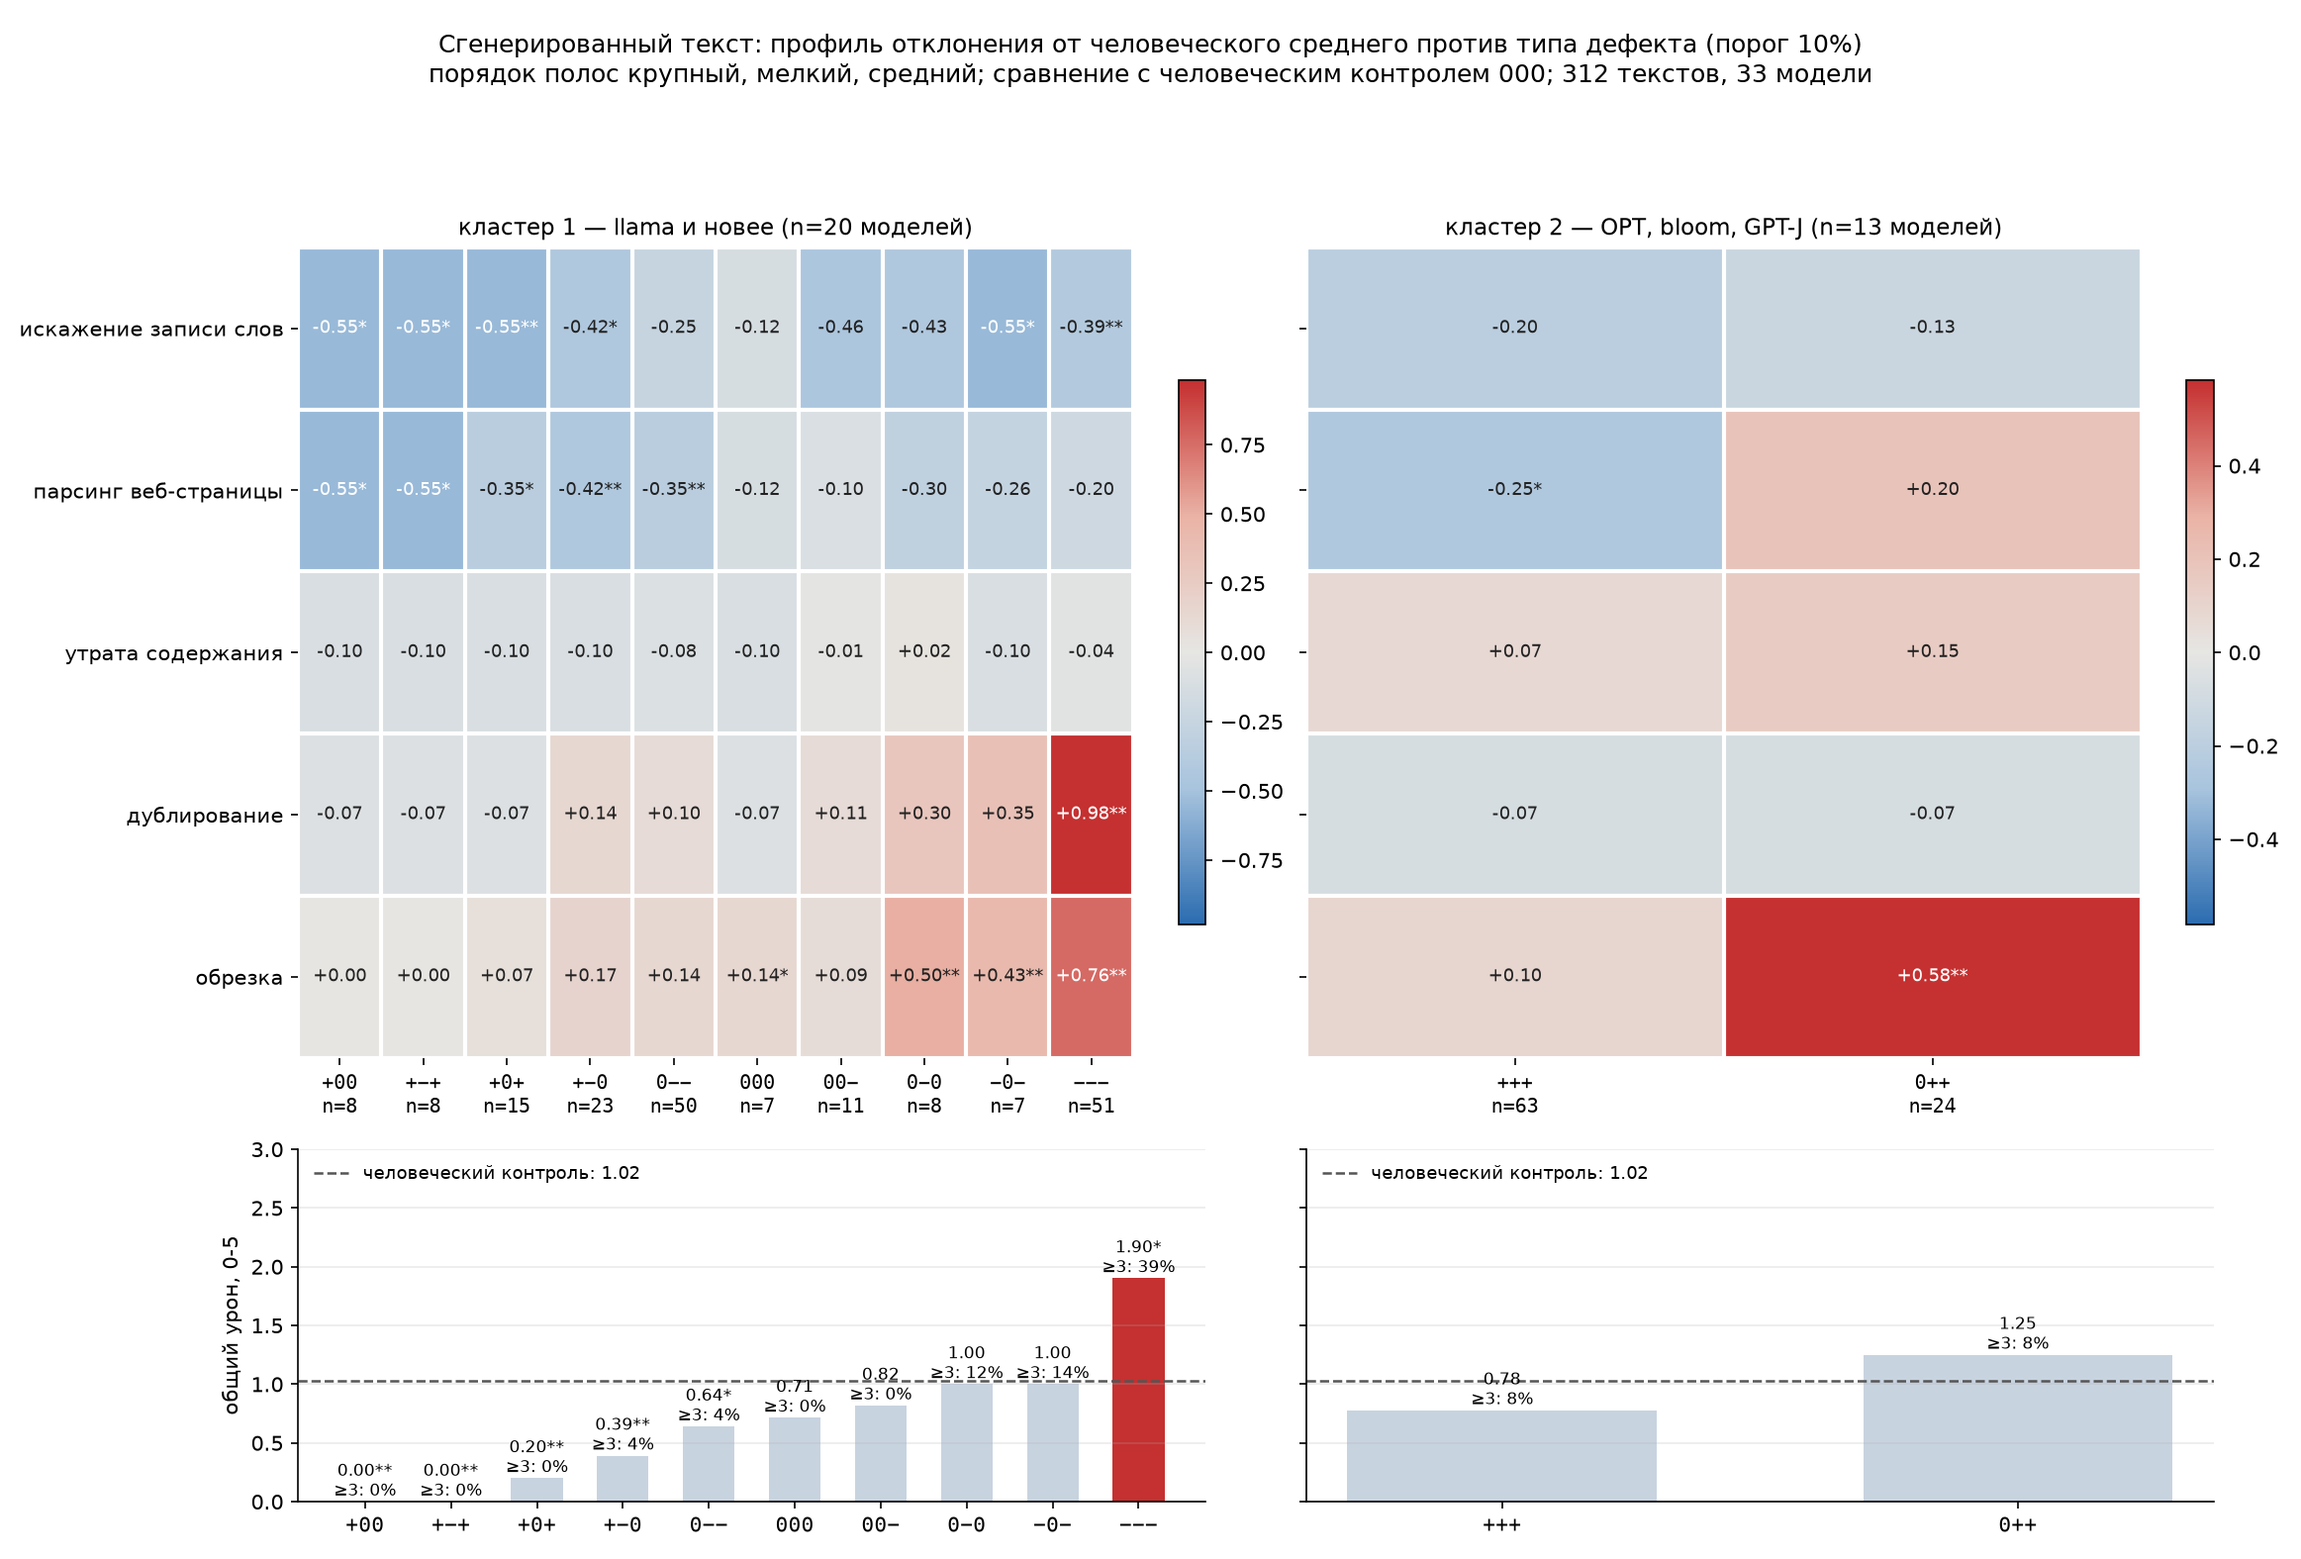
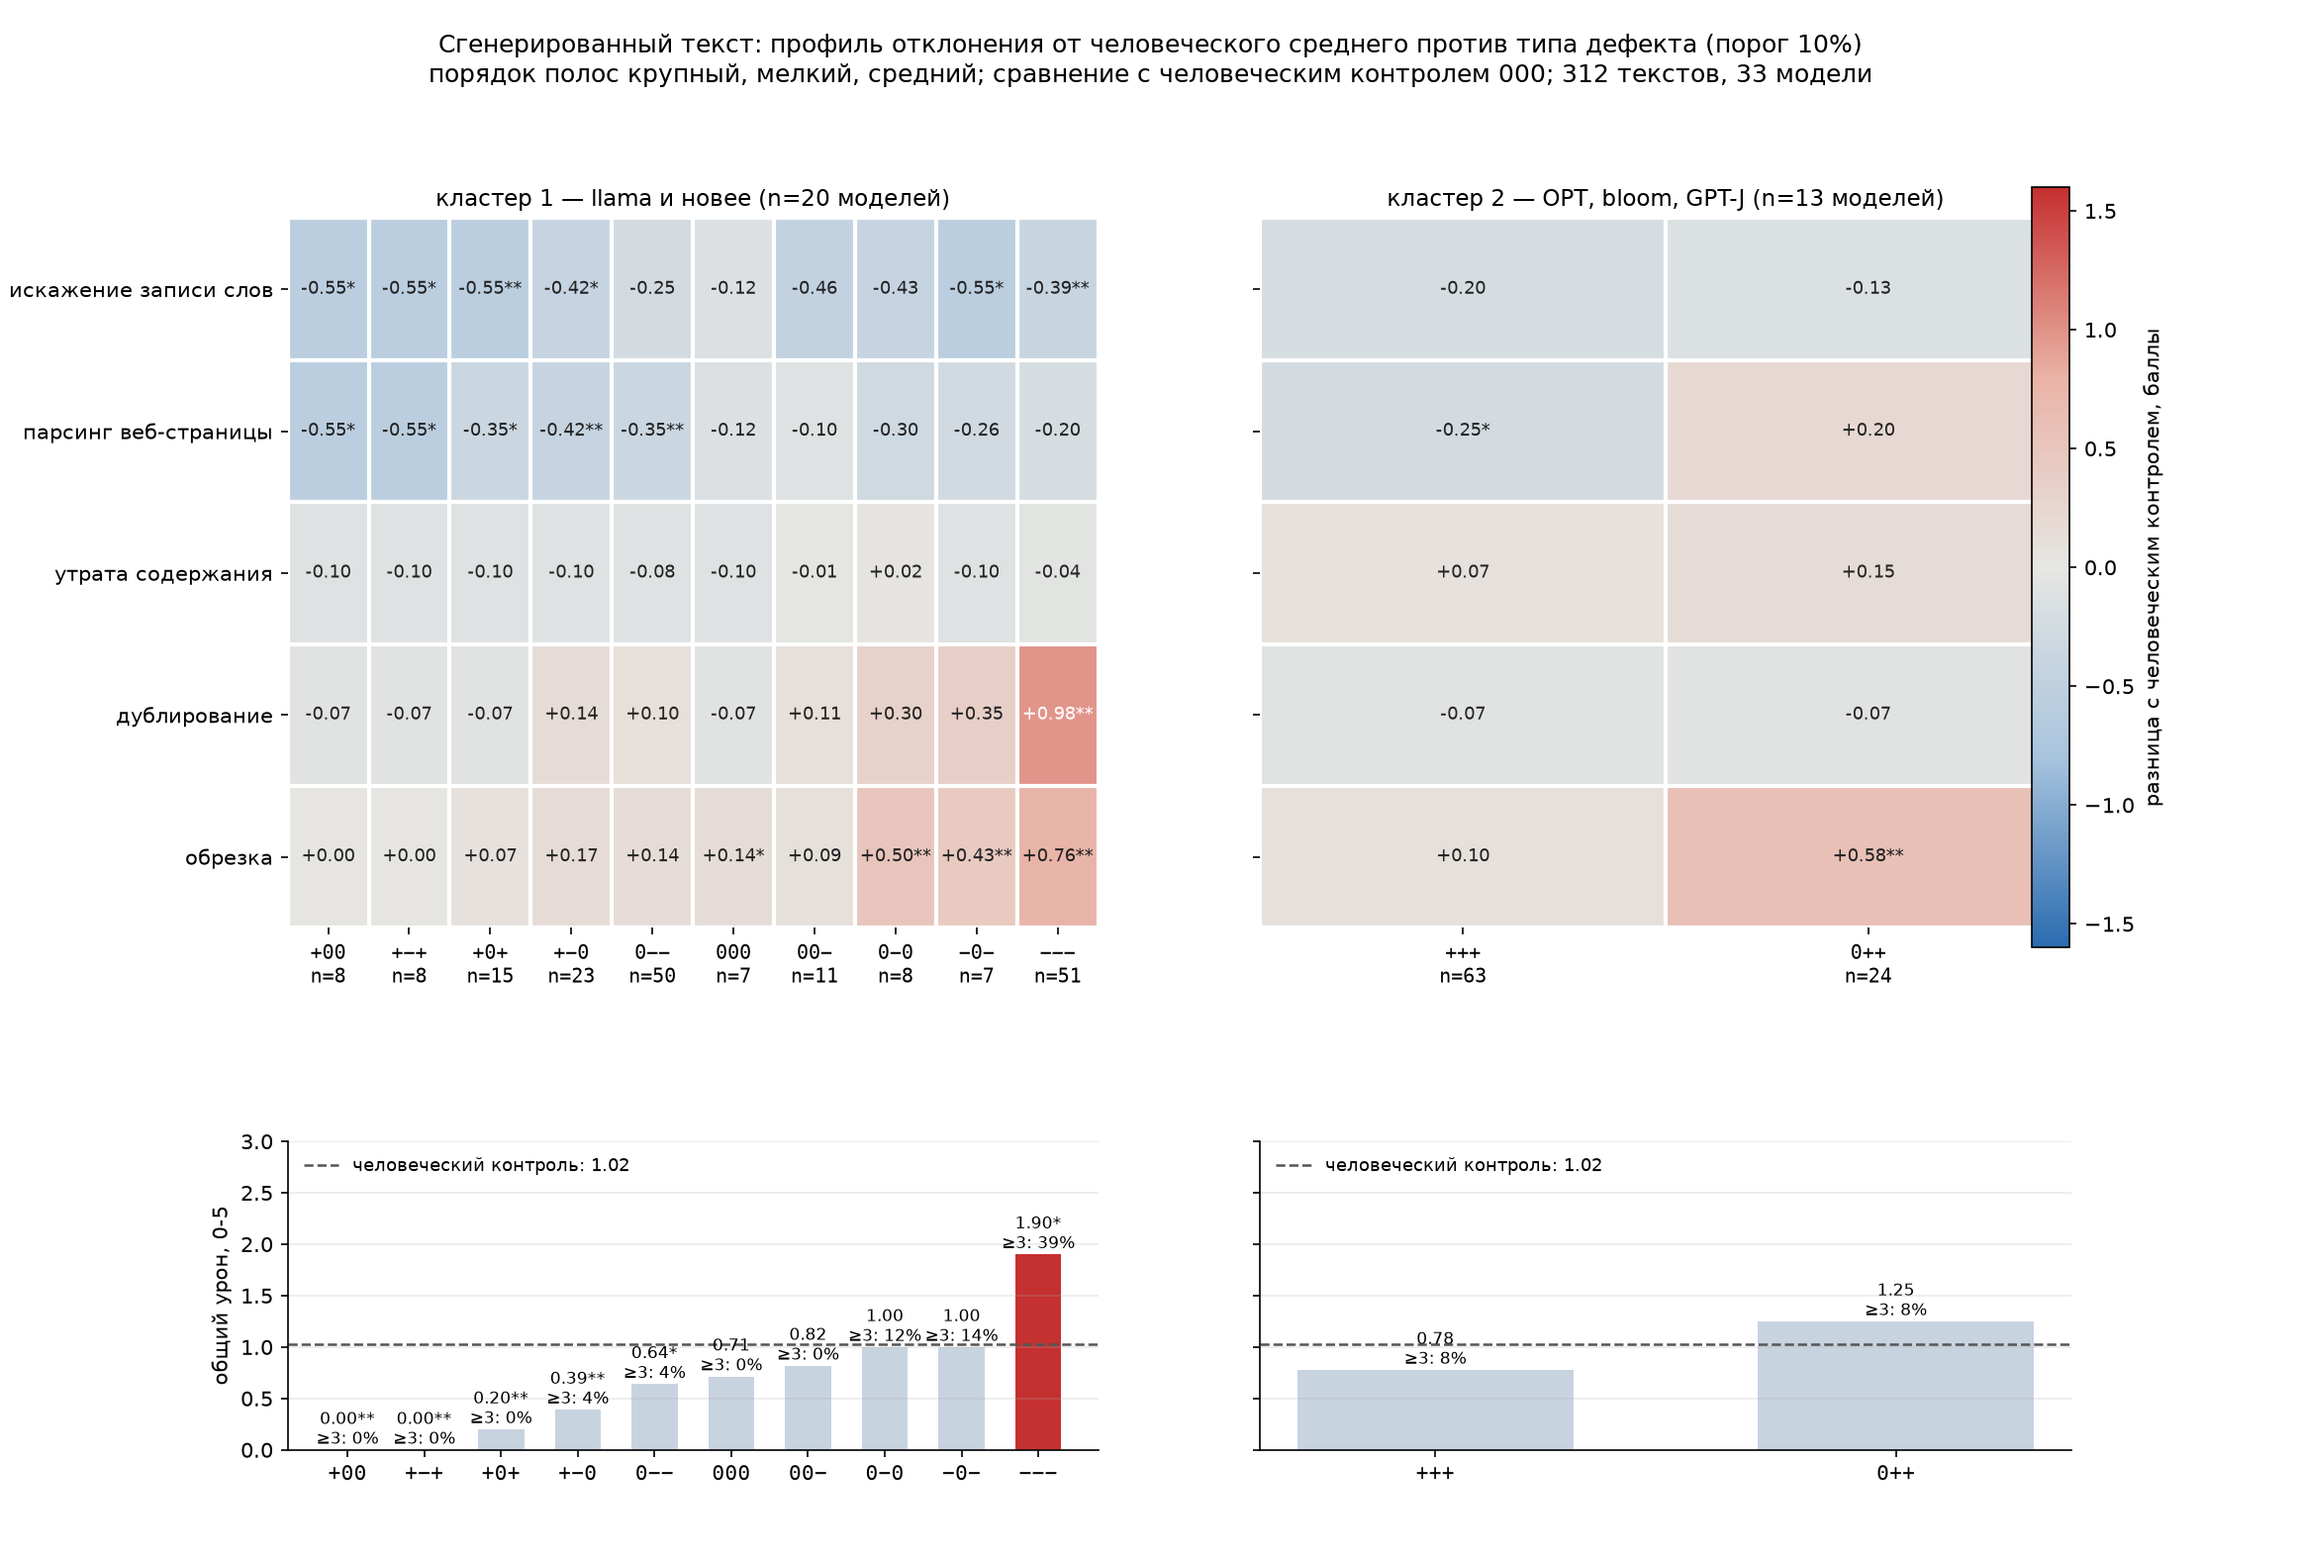
Put the human and generator maps on one colour scale
Each panel had been normalising its own range, so a cell in the generator map
and a cell in the human map could look alike at ten times the magnitude. All
four figures now share a fixed scale of +-1.6, and the two generator clusters
share one colourbar, which is what makes them readable side by side: the human
map's red is character corruption, cluster 1's is duplication and truncation,
and cluster 2 has none.

diff --git a/phdq_ext/experiments/gen_profiles_map.py b/phdq_ext/experiments/gen_profiles_map.py
@@ -46,6 +46,9 @@ def main():
     base = H[H["группа"] == "контроль"]
     col = f"профиль{TH}"
 
+    # one colour scale for both clusters and for the human map, so the three
+    # figures can be laid side by side and read against each other
+    lim = float(os.environ.get("LIM", 1.6))
     fig, axes = plt.subplots(2, 2, figsize=(15.5, 10.5),
                              height_ratios=[2.3, 1], sharey="row")
     for j, cl in enumerate((1, 2)):
@@ -59,7 +62,6 @@ def main():
                         if G[G[col] == p][k].nunique() + base[k].nunique() > 2
                         else 1.0 for p in order] for k in AX])
         ax = axes[0][j]
-        lim = np.abs(M).max()
         im = ax.imshow(M, cmap=CMAP, vmin=-lim, vmax=lim, aspect="auto")
         ax.set_xticks(range(len(order)))
         ax.set_xticklabels([f"{p}\nn={int(n[p])}" for p in order],
@@ -80,7 +82,7 @@ def main():
         for s in ax.spines.values():
             s.set_visible(False)
         ax.set_title(NAME[cl], fontsize=11)
-        fig.colorbar(im, ax=ax, fraction=.03)
+
 
         bx = axes[1][j]
         dm = [G[G[col] == p]["damage"] for p in order]
@@ -106,11 +108,13 @@ def main():
         for s in ("top", "right"):
             bx.spines[s].set_visible(False)
 
+    fig.colorbar(im, ax=list(axes[0]), fraction=.022,
+                 label="разница с человеческим контролем, баллы")
     fig.suptitle(f"Сгенерированный текст: профиль отклонения от человеческого "
                  f"среднего против типа дефекта (порог {TH}%)\n"
                  f"порядок полос {', '.join(B)}; сравнение с человеческим "
                  f"контролем 000; {len(D)} текстов, 33 модели", fontsize=12)
-    fig.tight_layout(rect=(0, 0, 1, 0.93))
+    fig.subplots_adjust(top=0.86, bottom=0.07, hspace=0.42)
     path = os.path.join(BASE, "figures", f"gen_profiles_{TH}.png")
     fig.savefig(path, dpi=150)
     print("saved", os.path.relpath(path, BASE))

diff --git a/phdq_ext/experiments/profiles_vs_defects.py b/phdq_ext/experiments/profiles_vs_defects.py
@@ -60,7 +60,8 @@ def main():
 
     fig, (ax, bx) = plt.subplots(2, 1, figsize=(12.5, 8.8),
                                  height_ratios=[2.4, 1])
-    lim = np.abs(M).max()
+    # same scale as the generator maps, so the figures are comparable
+    lim = float(os.environ.get("LIM", 1.6))
     im = ax.imshow(M, cmap=CMAP, vmin=-lim, vmax=lim, aspect="auto")
     labs = [f"{p}\nn={int(n[p])}" for p in order]
     ax.set_xticks(range(len(order)))
